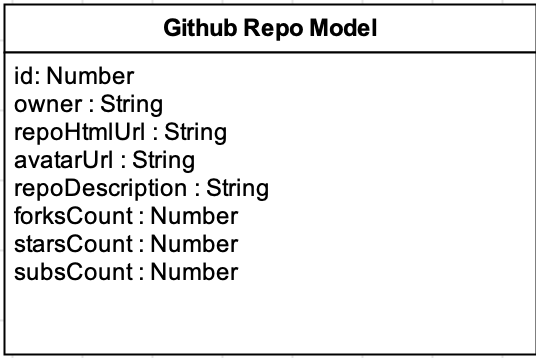
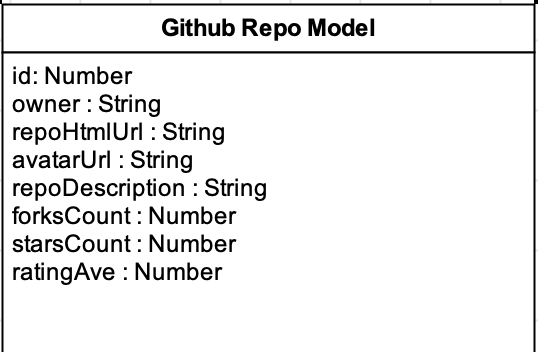
Updated schema

Changed region(s): [[0.0, 0.0, 1.0, 1.0]]

diff --git a/database/index.js b/database/index.js
@@ -11,6 +11,7 @@ let repoSchema = mongoose.Schema({
   repoDescription: String,
   forksCount: Number,
   starsCount: Number,
+  ratingAve: Number
 });
 
 let Repo = mongoose.model('Repo', repoSchema);
@@ -38,7 +39,8 @@ var filterRepos = (repos) => {
       'avatarUrl': repo.owner.avatar_url,
       'repoDescription': repo.description,
       'forksCount': repo.forks_count,
-      'starsCount': repo.watchers
+      'starsCount': repo.watchers,
+      'ratingAve': (repo.forks_count + repo.watchers) / 2
     };
   });
 
